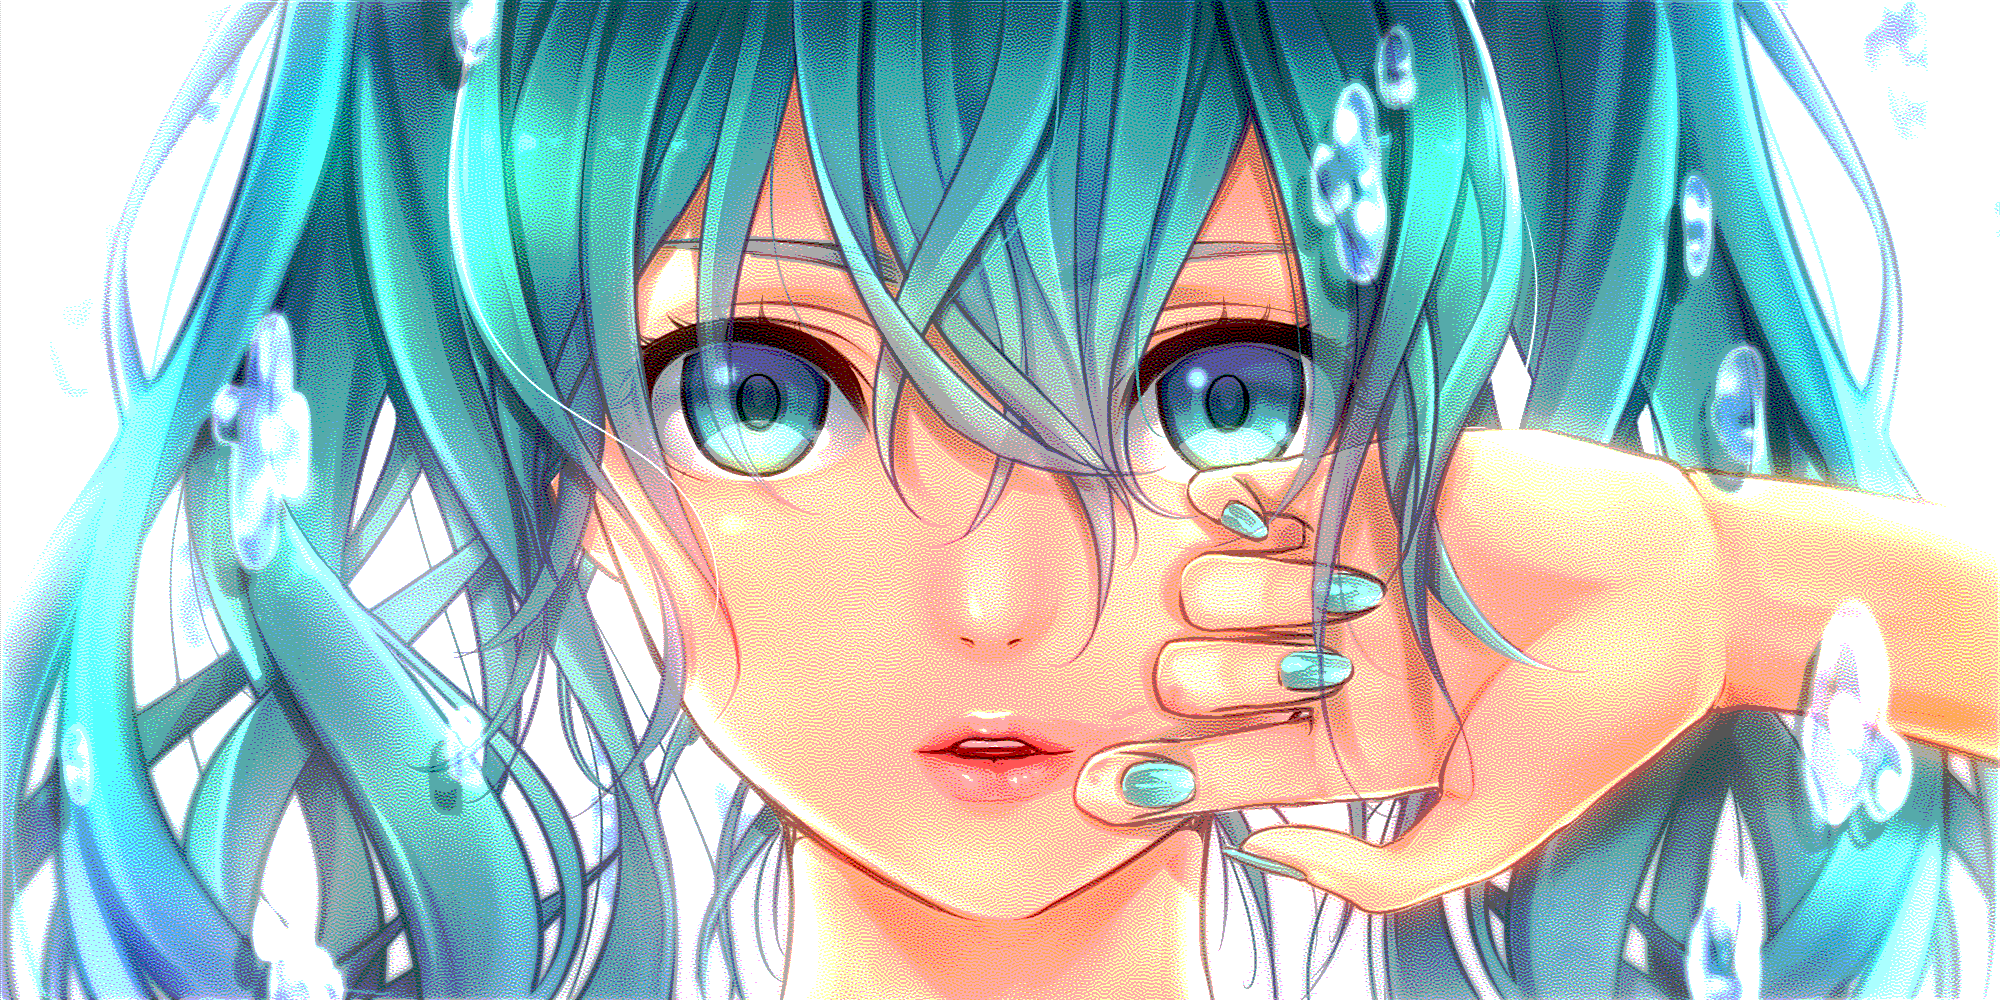
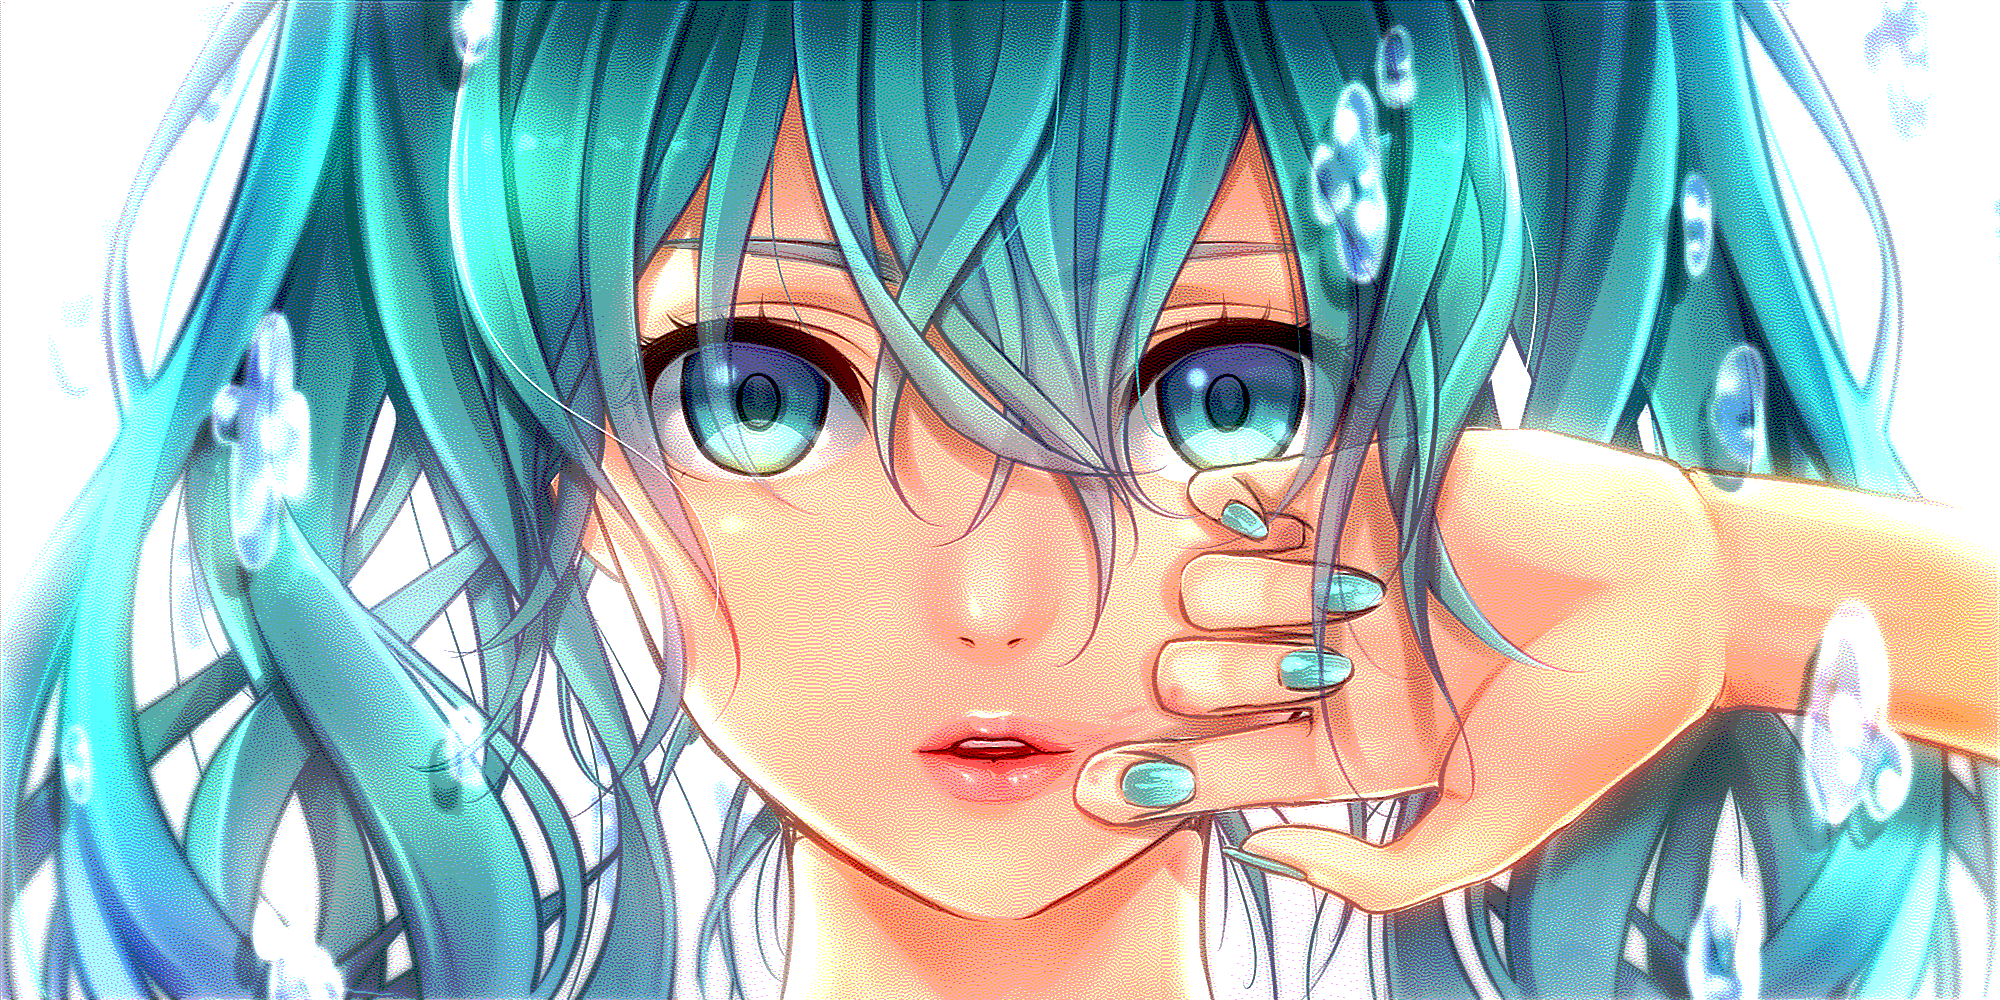
add serpentine dithering and gamma correction

diff --git a/dithering.py b/dithering.py
@@ -6,8 +6,6 @@ Created on Fri Feb 25 15:12:44 2022
 """
 
 # TODO: Add alpha channel support
-# TODO: Add serpentine diffusion
-# TODO: Add Gamma Correction
 # TODO: Add filter preturbation
 
 from functools import lru_cache
@@ -120,7 +118,7 @@ class DiffusionMatrix(Enum):
 
     @property
     @lru_cache(maxsize=1)
-    def hysteresis_reversed(self):
+    def hysteresis_reverse(self):
         """
         Return the matrix rotated 180 degrees for hysteresis filter preturbation.
         Calculate the matrix once retrieve from the cache on subsequent calls.
@@ -129,54 +127,64 @@ class DiffusionMatrix(Enum):
 
     @property
     @lru_cache(maxsize=1)
-    def reversed(self):
+    def reverse(self):
         """
         Return the matrix flipped horizontally for odd-row serpentine diffusion.
         Calculate the matrix once retrieve from the cache on subsequent calls.
         """
         return tuple((-x, y, c) for x, y, c in self.value)
 
+    @property
+    @lru_cache(maxsize=1)
+    def bidirectional(self):
+        return (self.value, self.reverse)
 
-def atkinson(image, bit_depth):
-    return dither(image, bit_depth, DiffusionMatrix.ATKINSON.value)
-
-
-def burkes(image, bit_depth):
-    return dither(image, bit_depth, DiffusionMatrix.BURKES.value)
-
-
-def floyd_steinberg(image, bit_depth):
-    return dither(image, bit_depth, DiffusionMatrix.FLOYD_STEINBERG.value)
+    @property
+    @lru_cache(maxsize=1)
+    def bidirectional_hysteresis(self):
+        return (self.hysteresis, self.hysteresis_reverse)
 
 
-def false_floyd_steinberg(image, bit_depth):
-    return dither(image, bit_depth, DiffusionMatrix.FALSE_FLOYD_STEINBERG.value)
+def atkinson(image, bit_depth, serpentine: bool = False):
+    return dither(image, bit_depth, DiffusionMatrix.ATKINSON.bidirectional)
 
 
-def jarvis_judice_ninke(image, bit_depth):
-    return dither(image, bit_depth, DiffusionMatrix.JARVIS_JUDICE_NINKE.value)
+def burkes(image, bit_depth, serpentine: bool = False):
+    return dither(image, bit_depth, DiffusionMatrix.BURKES.bidirectional)
 
 
-def stucki(image, bit_depth):
-    return dither(image, bit_depth, DiffusionMatrix.STUCKI.value)
+def floyd_steinberg(image, bit_depth, serpentine: bool = False):
+    return dither(image, bit_depth, DiffusionMatrix.FLOYD_STEINBERG.bidirectional)
 
 
-def sierra(image, bit_depth):
-    return dither(image, bit_depth, DiffusionMatrix.SIERRA.value)
+def false_floyd_steinberg(image, bit_depth, serpentine: bool = False):
+    return dither(image, bit_depth, DiffusionMatrix.FALSE_FLOYD_STEINBERG.bidirectional)
 
 
-def two_row_sierra(image, bit_depth):
-    return dither(image, bit_depth, DiffusionMatrix.TWO_ROW_SIERRA.value)
+def jarvis_judice_ninke(image, bit_depth, serpentine: bool = False):
+    return dither(image, bit_depth, DiffusionMatrix.JARVIS_JUDICE_NINKE.bidirectional)
 
 
-def sierra_lite(image, bit_depth):
-    return dither(image, bit_depth, DiffusionMatrix.SIERRA_LITE.value)
+def stucki(image, bit_depth, serpentine: bool = False):
+    return dither(image, bit_depth, DiffusionMatrix.STUCKI.bidirectional)
 
 
-def lau_arce_gallagher(image, bit_depth, hysteresis_constant: float = 1, serpentine: bool = True):
+def sierra(image, bit_depth, serpentine: bool = False):
+    return dither(image, bit_depth, DiffusionMatrix.SIERRA.bidirectional)
+
+
+def two_row_sierra(image, bit_depth, serpentine: bool = False):
+    return dither(image, bit_depth, DiffusionMatrix.TWO_ROW_SIERRA.bidirectional)
+
+
+def sierra_lite(image, bit_depth, serpentine: bool = False):
+    return dither(image, bit_depth, DiffusionMatrix.SIERRA_LITE.bidirectional)
+
+
+def lau_arce_gallagher(image, bit_depth, hysteresis_constant: float = 1, threshold: float = 0.0, serpentine: bool = False):
     return green_noise_halftone(
-        image, bit_depth, (DiffusionMatrix.FLOYD_STEINBERG.hysteresis, DiffusionMatrix.FLOYD_STEINBERG.hysteresis_reversed,
-                           DiffusionMatrix.STUCKI.value, DiffusionMatrix.STUCKI.reversed), hysteresis_constant, serpentine
+        image, bit_depth, (*DiffusionMatrix.FLOYD_STEINBERG.bidirectional_hysteresis,
+                           *DiffusionMatrix.STUCKI.bidirectional), hysteresis_constant, threshold, serpentine
     )
 
 
@@ -190,58 +198,72 @@ def clamp(color):
     return max(0, min(color, 255))
 
 
+@cfunc('float64(float64, float64)')
+def gamma_correct(color: float, gamma: float):
+    return color / 12.92 if color < 0.04045 else ((color + 0.055) / 1.055) ** gamma
+
+
+@cfunc('float64(float64, int64)')
+def quantize_uniform_linear(color: float, palette_size: float) -> int:
+    return round(gamma_correct(color / 255.0, 2.4) * palette_size) / palette_size * 255.0
+
+
 @cfunc('float64(float64, int64)')
 def quantize_uniform(color: float, palette_size: float) -> int:
     return round(color / 255.0 * palette_size) / palette_size * 255.0
 
 
 @njit
-def dither(image: np.ndarray, bit_depth: int, matrix: Tuple) -> np.ndarray:
+def dither(image: np.ndarray, bit_depth: int, matrix: Tuple, serpentine: bool) -> np.ndarray:
     height, width, channels = image.shape
     palette_size = (1 << bit_depth) - 1
+
+    diffusion, diffusion_reverse = matrix
+    diffusion_matrices = (diffusion, diffusion_reverse)
+
+    divisor = 2 if serpentine else 1
+    range_args = ((0, width, 1), (width, 0, -1))
+
     for y in range(height):
-        for x in range(width):
+        aim = y % divisor
+        for x in range(*range_args[aim]):
             for c in range(channels):
                 color = image[y, x, c]
                 quant_color = quantize_uniform(color, palette_size)
-                image[y, x, c] = quant_color
+                image[y, x, c] = clamp(quant_color)
                 quant_error = color - quant_color
-                for u, v, k in matrix:
+                for u, v, k in diffusion_matrices[aim]:
                     if check_bounds(x + u, y + v, width, height):
                         image[y + v, x + u, c] += quant_error * k
     return image
 
 
 @njit
-def green_noise_halftone(image: np.ndarray, bit_depth: int, matrix: Tuple, H: int, serpentine: bool = True) -> np.ndarray:
+def green_noise_halftone(image: np.ndarray, bit_depth: int, matrix: Tuple, H: int, threshold: float, serpentine: bool) -> np.ndarray:
     height, width, channels = image.shape
     palette_size = (1 << bit_depth) - 1
 
-    if serpentine:
-        hysteresis, hysteresis_reversed, diffusion, diffusion_reversed = matrix
-        hysteresis_matrices = hysteresis, hysteresis_reversed
-        diffusion_matrices = diffusion, diffusion_reversed
-    else:
-        hysteresis, _, diffusion, _ = matrix
-        hysteresis_matrices = hysteresis, hysteresis
-        diffusion_matrices = diffusion, diffusion
+    hysteresis, hysteresis_reverse, diffusion, diffusion_reverse = matrix
+    hysteresis_matrices = hysteresis, hysteresis_reverse
+    diffusion_matrices = diffusion, diffusion_reverse
+
+    divisor = 2 if serpentine else 1
+    range_args = ((0, width, 1), (width, 0, -1))
 
     for y in range(height):
-        aim = y % 2
-        range_args = ((0, width, 1), (width, 0, -1))
+        aim = y % divisor
         for x in range(*range_args[aim]):
             for c in range(channels):
                 input_color = image[y, x, c]
+                hysteresis_color = input_color
                 for u, v, k in hysteresis_matrices[aim]:
-                    if check_bounds(x + u, y + v, width, height):
-                        image[y, x, c] += H * k * image[y + v, x + u, c]
-                color = image[y, x, c]
-                quant_color = quantize_uniform(color, palette_size)
-                image[y, x, c] = quant_color
-                quant_error = quant_color - input_color
+                    if check_bounds(x + u, y + v, width, height) and image[y + v, x + u, c] >= 255.0 * threshold:
+                        hysteresis_color += H * k * image[y + v, x + u, c]
+                quant_color = quantize_uniform_linear(
+                    hysteresis_color, palette_size)
+                image[y, x, c] = clamp(quant_color)
+                quant_error = input_color - quant_color
                 for u, v, k in diffusion_matrices[aim]:
                     if check_bounds(x + u, y + v, width, height):
-                        image[y + v, x + u, c] -= quant_error * k
-                image[y, x, c] = clamp(image[y, x, c])
-
+                        image[y + v, x + u, c] += quant_error * k
     return image

diff --git a/test/test_dithering.py b/test/test_dithering.py
@@ -37,7 +37,7 @@ class TestDithering(unittest.TestCase):
     def verify_palette_size(self, image, bit_depth, num_channels=3) -> bool:
         palette_size = 1
         for i in range(num_channels):
-            print(np.unique(image[:, :, i]))
+            #print(np.unique(image[:, :, i]))
             print(np.unique(image[:, :, i]).size)
             palette_size *= np.unique(image[:, :, i]).size
         expected_palette_size = (1 << bit_depth) ** num_channels
@@ -53,7 +53,15 @@ class TestDithering(unittest.TestCase):
         self.assertTrue(self.verify_palette_size(output_data, bit_depth))
 
         output_data = self.get_dithered_image(
+            image, bit_depth, floyd_steinberg, serpentine=True)
+        self.assertTrue(self.verify_palette_size(output_data, bit_depth))
+
+        output_data = self.get_dithered_image(
             image, bit_depth, lau_arce_gallagher,  hysteresis_constant=1/2.5)
+        self.assertTrue(self.verify_palette_size(output_data, bit_depth))
+
+        output_data = self.get_dithered_image(
+            image, bit_depth, lau_arce_gallagher,  hysteresis_constant=1/2.5, serpentine=True)
         self.assertTrue(self.verify_palette_size(output_data, bit_depth))
 
     def test_visual(self):
@@ -96,7 +104,7 @@ class TestDithering(unittest.TestCase):
         output_path = './images/smile_green_noise_dithered_1_bit.png'
         image = self.load_image(input_path)
         dithered_image = self.get_dithered_image(
-            image, 1, lau_arce_gallagher, hysteresis_constant=1/2.5)
+            image, 1, lau_arce_gallagher, hysteresis_constant=1)
         self.save_image(Image.fromarray(dithered_image), output_path)
 
         input_path = './images/hatsune_miku.png'
